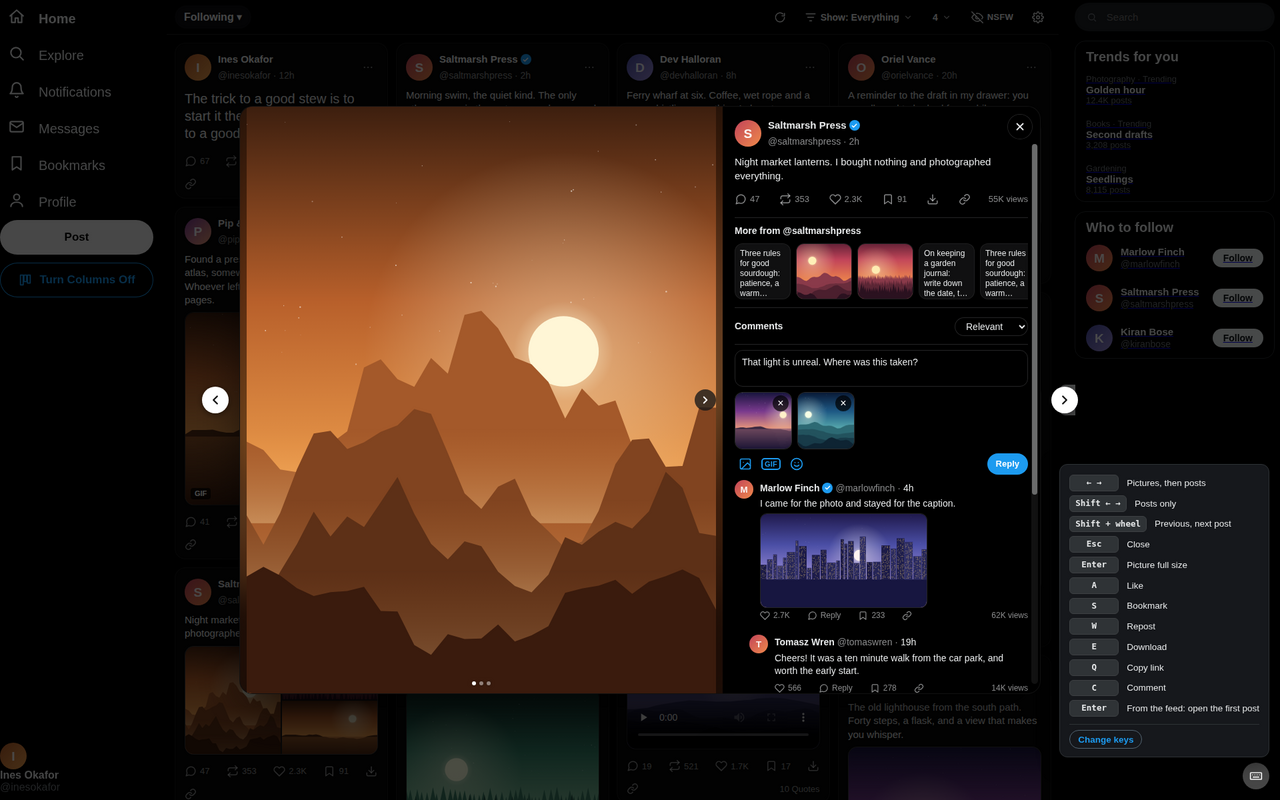
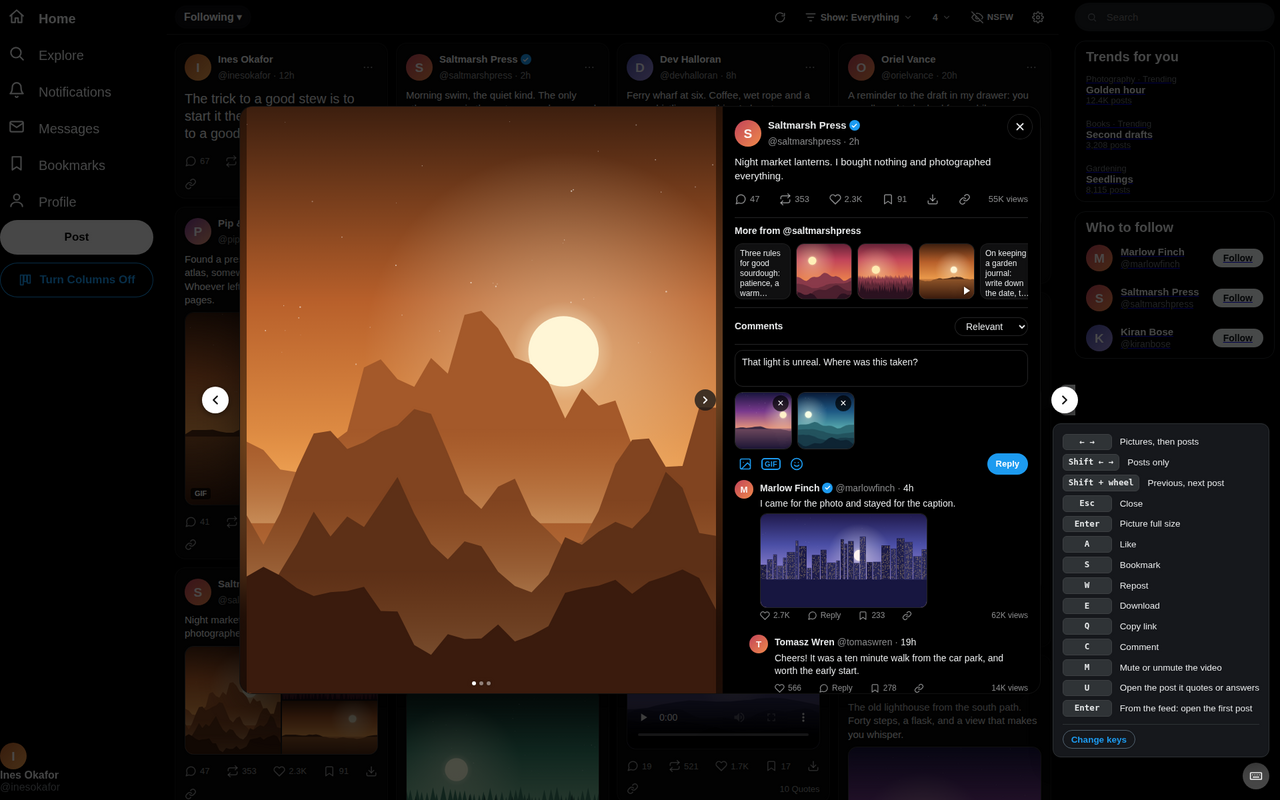
Store: keys and welcome shots redone, a colour-themes shot and slide, listing's slide list
Claude-Session: https://claude.ai/code/session_018kEDBPkK9jgvVfS9DEM5ks

Changed region(s): [[0.7188, 0.1875, 1.0, 0.9375]]

diff --git a/store/make-slides.js b/store/make-slides.js
@@ -18,7 +18,8 @@ const SLIDES = [
   { file: '08-reels', title: 'Doomscroll with style', bullets: ['One post at a time, scrolled up and down', 'Videos play with sound and loop', 'Shift + wheel or the arrow keys move to the next post'] },
   { file: '02-post-panel', title: 'Open a post without losing your place', bullets: ['View media with comments alongside', 'Like, bookmark and reply to posts and to comments', 'Close post to return to exactly where you were'] },
   { file: '09-reply-tools', title: 'Reply with pictures and emoji', bullets: ['Pictures, GIFs and emoji from the comment box', 'Reply to the post or to any comment in-panel'] },
-  { file: '10-keys', title: 'Browse with your keyboard', bullets: ['Arrow keys step through pictures, then posts', 'A to like, S to bookmark, E to download, C to comment', 'Remap key bindings in settings'] },
+  { file: '10-keys', title: 'Browse with your keyboard', bullets: ['Vim keys (j k, w a s d, f to like, o to open) or a simple set', 'Arrow keys step through pictures, then posts', 'Remap any key in settings'] },
+  { file: '13-themes', title: 'Fourteen colour themes', bullets: ['Catppuccin, Gruvbox, Ros\u00e9 Pine, Dracula, Tokyo Night, Nord and more', 'The columns, the post panel and the settings follow', 'Or keep X\u2019s own colours'] },
   { file: '03-photo-viewer', title: 'Photos and video, done properly', bullets: ['Open photos in a viewer, with Download and Copy link', 'Original-size photos and the best video quality, one click', 'Point at a video for a muted preview'] },
 ];
 

diff --git a/store/make-screenshots.js b/store/make-screenshots.js
@@ -372,6 +372,15 @@ async function main() {
   await save(page, '12-start', { scale: false });
   await ctx.close();
 
+  // 13. a colour theme
+  ctx = await context(1920, 1200, { cols: 4, theme: 'catppuccin-mocha' });
+  page = await ctx.newPage();
+  await page.goto(server.origin + '/home/');
+  await ready(page);
+  await page.waitForTimeout(1000);
+  await save(page, '13-themes');
+  await ctx.close();
+
   await browser.close(); await server.close();
 }
 main().catch((e) => { console.error(e); process.exit(1); });

diff --git a/store/listing.md b/store/listing.md
@@ -69,8 +69,9 @@ Columns on Home, Search, Lists, Bookmarks and profiles; a post panel with its pi
 3. `03-post-panel.png` Open a post without losing your place.
 4. `04-reply-tools.png` Reply with pictures and emoji, from the comment box in the panel.
 5. `05-keys.png` Browse with your keyboard: the card of keys.
-6. `06-photo-viewer.png` Photos and video, done properly: the viewer with Download and Copy link.
-(Not in the slides, still in `store/screenshots/`: the media wall, the filters, the room, the starting points, the settings page and the settings in a panel.)
+6. `06-themes.png` Fourteen colour themes (the feed in Catppuccin Mocha).
+7. `07-photo-viewer.png` Photos and video, done properly: the viewer with Download and Copy link.
+(Not in the slides, still in `store/screenshots/`: the media wall, the filters, the room, the starting points (the welcome page), the settings page and the settings in a panel.)
 
 **Support link ("Support" / contributions field):** https://ko-fi.com/falsehamartia
 **Homepage:** https://github.com/Lynchalot/multi-column-for-x
